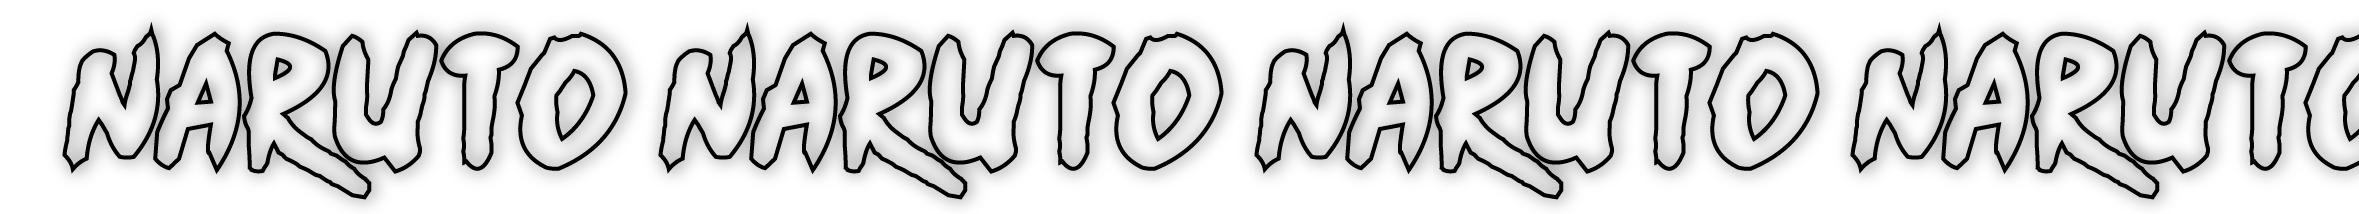
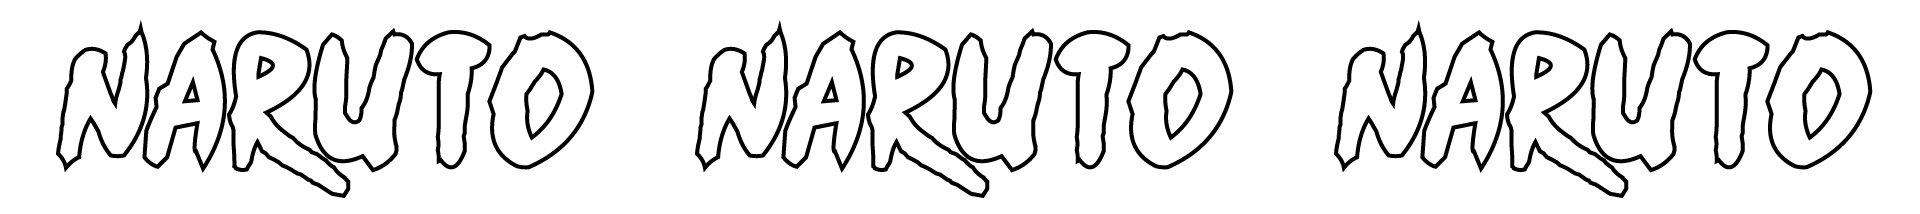
New naruto loop image (beter gecropt) + Verwijdering van de oude versies

diff --git a/index.html b/index.html
@@ -56,8 +56,8 @@
 
 		<!-- Buiten de div met het grid geplaatst -->
 		<div class="loop">
-			<img src="images/Naruto_loop2.jpg" alt="" />
-			<img src="images/Naruto_loop2.jpg" alt="" />
+			<img src="images/Naruto_Loop.jpg" alt="" />
+			<img src="images/Naruto_Loop.jpg" alt="" />
 		</div>
 	</body>
 </html>
